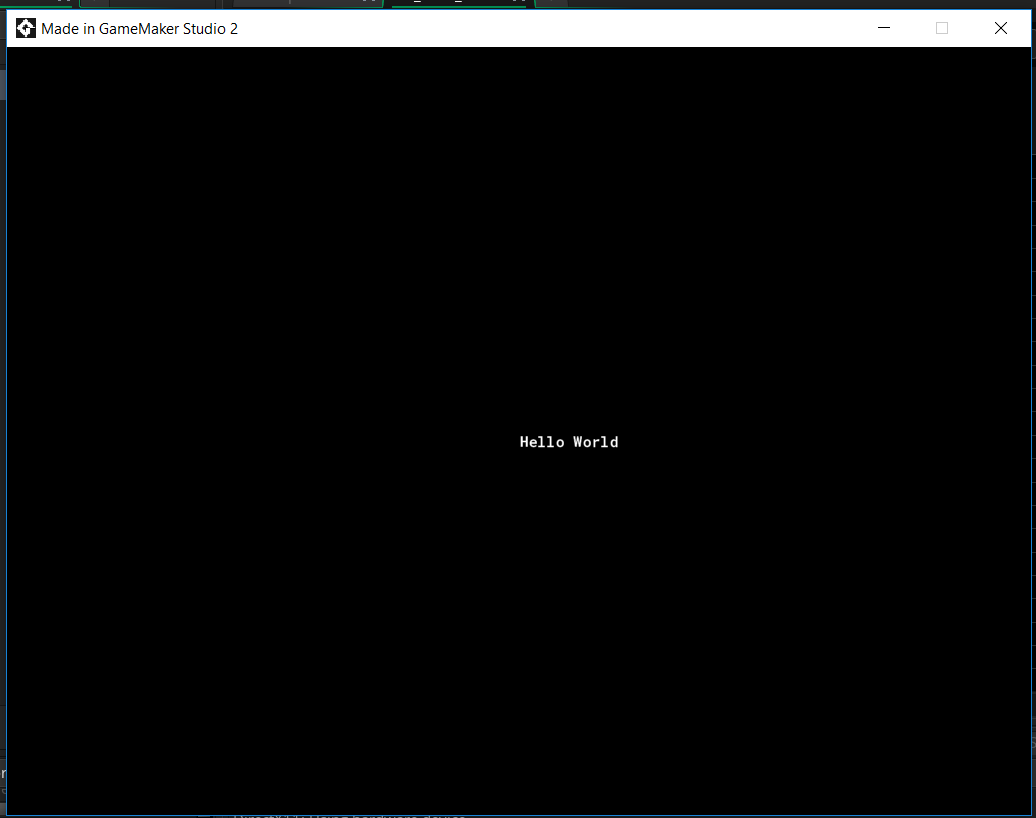
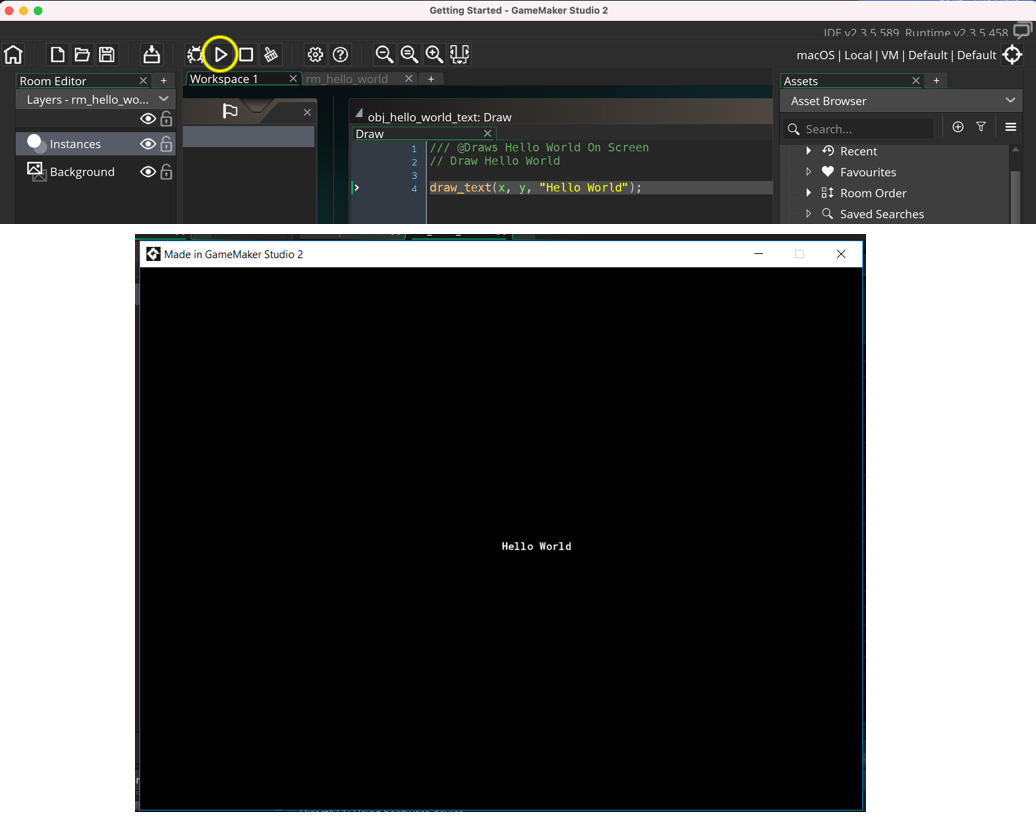
creating a new gml project

diff --git a/README.md b/README.md
@@ -118,7 +118,9 @@ Now we are ready to run the game for the first time.  I know this is not impress
 
 ##### `Step 10.`\|`ITA`| :large_blue_diamond:
 
-![alt_text](images/.png)
+Notice that the text is left justified.  It starts writing from the center going towards the right hand side.
+
+![Showing center of room in running hello world](images/HelloWorldGameOffCenter.png)
 
 <img src="https://via.placeholder.com/500x2/45D7CA/45D7CA" alt="drawing" height="2px" alt = ""/>
 
